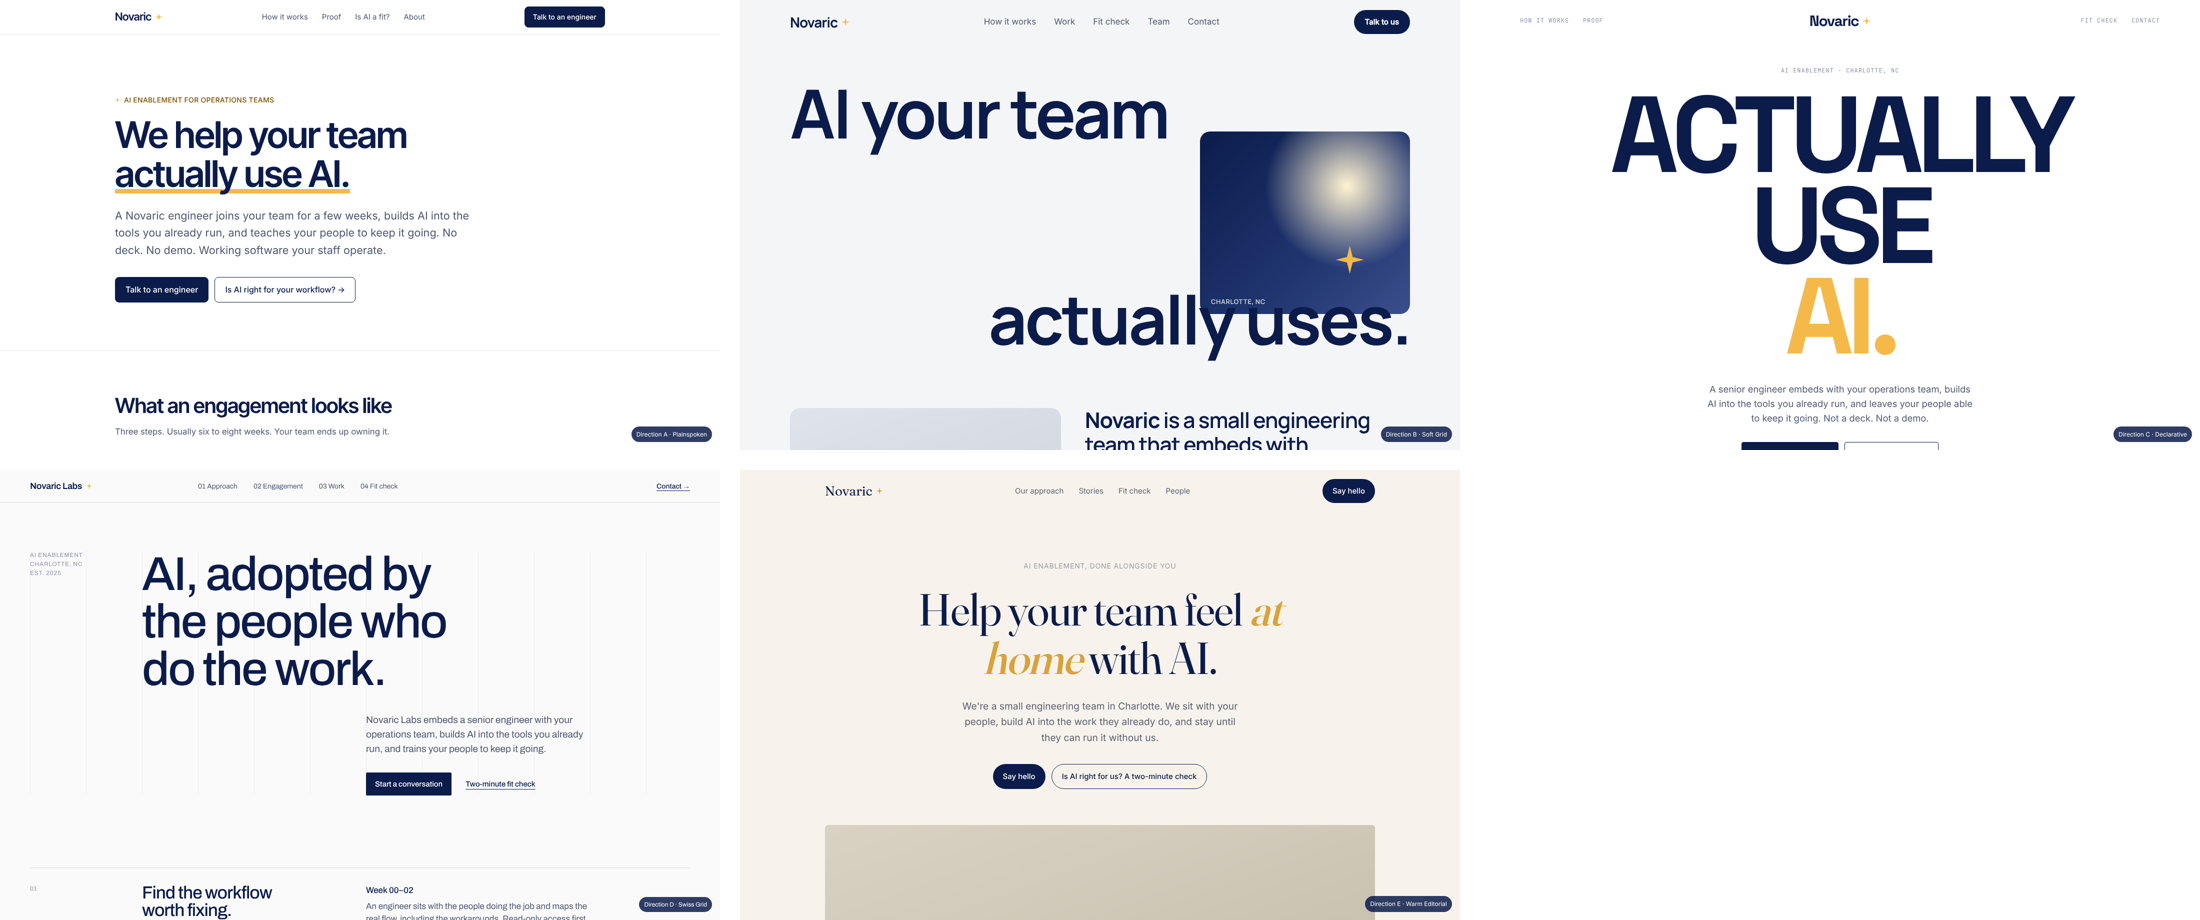
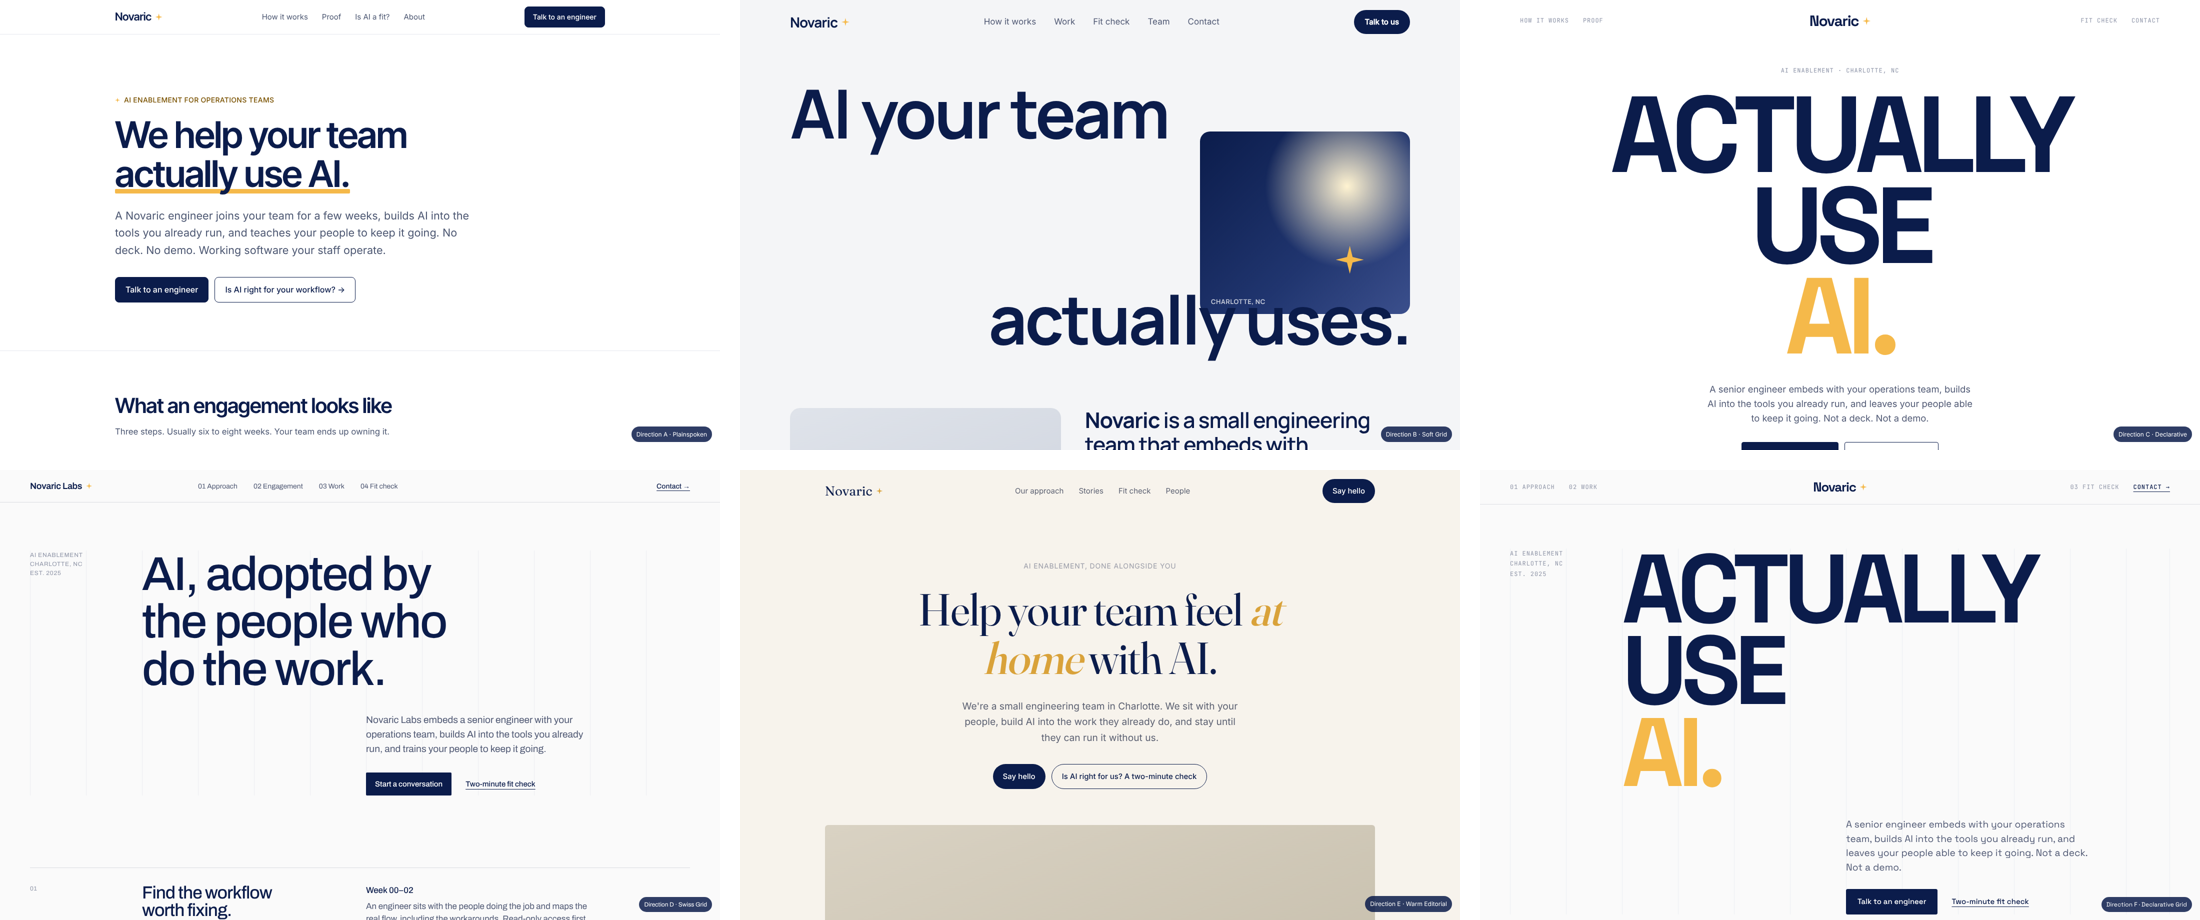
Add Direction F, combining the Declarative and Swiss Grid mockups
Stacked headline, mono labels, role marquee, navy proof block and the
centered fit check from C, set on D's visible 12-column grid with
numbered hairline rows, a work table, and the figures strip. Updates
the index and design-directions.md with the reasoning and makes F the
working recommendation.

Claude-Session: https://claude.ai/code/session_013pzgRyT7PWjBGA45tKFZWZ

diff --git a/handoff/rebrand/direction-f-declarative-grid.html b/handoff/rebrand/direction-f-declarative-grid.html
@@ -1,0 +1,166 @@
+<!DOCTYPE html>
+<html lang="en">
+<head>
+<meta charset="utf-8">
+<meta name="viewport" content="width=device-width, initial-scale=1">
+<title>Direction F — Declarative Grid · Novaric Labs rebrand</title>
+<link rel="preconnect" href="https://fonts.googleapis.com">
+<link href="https://fonts.googleapis.com/css2?family=Space+Grotesk:wght@400;500;700&family=JetBrains+Mono:wght@400;500&display=swap" rel="stylesheet">
+<style>
+  /* C + D. From C: the giant stacked headline, mono micro-labels, the role
+     marquee, the full-bleed navy proof block, the big centered fit check.
+     From D: a visible 12-column grid, flush-left discipline, numbered
+     hairline rows, a table instead of cards, the figures strip, underline
+     links. One display face (Space Grotesk) plus mono for labels. */
+  :root{--ink:#0b1c4b;--ink-soft:#4f5873;--ink-dim:#9096a8;--paper:#fafafa;--line:#dcdee4;--grid:#eceef2;--gold:#f5b94a;--gutter:24px}
+  *{box-sizing:border-box}
+  body{margin:0;background:var(--paper);color:var(--ink);font-family:"Space Grotesk",Inter,system-ui,sans-serif;font-size:17px;line-height:1.5;-webkit-font-smoothing:antialiased}
+  h1,h2,h3{font-weight:700;letter-spacing:-0.04em;line-height:.95;margin:0}
+  p{margin:0} a{color:inherit;text-decoration:none}
+  .mono{font-family:"JetBrains Mono",ui-monospace,monospace;font-size:12px;letter-spacing:.08em;text-transform:uppercase;color:var(--ink-dim)}
+  .wrap{width:min(1320px,calc(100% - 48px));margin:0 auto}
+  .grid{display:grid;grid-template-columns:repeat(12,1fr);column-gap:var(--gutter)}
+  .rule{border-top:1px solid var(--line)}
+  .ul{text-decoration:underline;text-underline-offset:5px;font-weight:500}
+  .star{width:14px;height:14px;background:var(--gold);clip-path:polygon(50% 0,60% 40%,100% 50%,60% 60%,50% 100%,40% 60%,0 50%,40% 40%);display:inline-block}
+  /* nav: C's centered wordmark on D's grid row */
+  nav{position:sticky;top:0;background:var(--paper);border-bottom:1px solid var(--line);z-index:9}
+  nav .grid{height:68px;align-items:center}
+  nav .l{grid-column:1/5;display:flex;gap:28px}
+  nav .brand{grid-column:5/9;text-align:center;font-weight:700;font-size:26px;letter-spacing:-0.05em;display:flex;justify-content:center;align-items:center;gap:8px}
+  nav .r{grid-column:9/13;display:flex;gap:28px;justify-content:flex-end}
+  nav .r .ul{color:var(--ink)}
+  /* hero on a visible grid, flush left */
+  .hero{padding:88px 0 72px;position:relative}
+  .hero .grid{position:relative}
+  .lines{position:absolute;inset:0;display:grid;grid-template-columns:repeat(12,1fr);column-gap:var(--gutter);pointer-events:none}
+  .lines i{border-left:1px solid var(--grid)}
+  .lines i:last-child{border-right:1px solid var(--grid)}
+  .hero .grid>*:not(.lines){position:relative}
+  .hero .idx{grid-column:1/3;grid-row:1;line-height:1.7}
+  .hero .stack{grid-column:3/13;grid-row:1;font-size:clamp(4rem,13.5vw,13rem);line-height:.84;letter-spacing:-0.06em;text-transform:uppercase;font-weight:700}
+  .hero .stack span{display:block}
+  .hero .stack .gold{color:var(--gold)}
+  .hero .lede{grid-column:7/12;grid-row:2;margin-top:48px;font-size:1.2rem;color:var(--ink-soft);max-width:40ch}
+  .hero .actions{grid-column:7/12;grid-row:3;margin-top:28px;display:flex;gap:28px;align-items:center;font-size:15px}
+  .btn{display:inline-flex;align-items:center;padding:13px 22px;border:1.5px solid var(--ink);border-radius:3px;font-weight:500;font-size:15px}
+  .btn.fill{background:var(--ink);color:#fff}
+  /* marquee from C, hairlined like D */
+  .roles{border-top:1px solid var(--line);border-bottom:1px solid var(--line);padding:18px 0;overflow:hidden;white-space:nowrap}
+  .roles .track{display:inline-block;font-weight:500;font-size:1.4rem;letter-spacing:-0.02em;color:var(--ink-soft)}
+  .roles .track i{font-style:normal;margin:0 26px;color:var(--gold)}
+  /* numbered rows from D */
+  section{padding:72px 0}
+  .row{padding:36px 0;align-items:start}
+  .row .n{grid-column:1/3;padding-top:10px}
+  .row h2{grid-column:3/8;font-size:clamp(1.8rem,3.2vw,2.8rem);max-width:14ch}
+  .row .body{grid-column:8/12;color:var(--ink-soft);max-width:44ch;padding-top:6px}
+  .row .body b{display:block;color:var(--ink);font-weight:500;margin-bottom:6px;font-family:"JetBrains Mono";font-size:12px;letter-spacing:.08em;text-transform:uppercase}
+  /* dark proof from C, on the grid */
+  .dark{background:var(--ink);color:#fff;padding:104px 0}
+  .dark .mono{color:#8f98b5}
+  .dark .head{grid-column:1/7}
+  .dark h2{font-size:clamp(2.4rem,5vw,4.6rem);margin-top:16px}
+  .dark p{color:#c7cde0;margin-top:20px;max-width:40ch}
+  .dark .panel{grid-column:8/13;align-self:center;border-top:1px solid #2a3d78;font-family:"JetBrains Mono";font-size:13px;line-height:1.7;color:#c7cde0}
+  .dark .panel div{display:grid;grid-template-columns:110px 90px 1fr;gap:16px;padding:14px 0;border-bottom:1px solid #2a3d78}
+  .dark .panel b{color:var(--gold);font-weight:500}
+  .dark .panel span:first-child{color:#8f98b5}
+  /* work table + figures from D */
+  table{width:100%;border-collapse:collapse;font-size:15px}
+  th{text-align:left;font-weight:500;font-family:"JetBrains Mono";font-size:11px;letter-spacing:.08em;text-transform:uppercase;color:var(--ink-dim);padding:10px 0;border-bottom:1px solid var(--ink)}
+  td{padding:16px 0;border-bottom:1px solid var(--line);vertical-align:top}
+  td:first-child{width:16%;color:var(--ink-dim)}
+  td:nth-child(2){width:22%;font-weight:500}
+  td:last-child{color:var(--ink-soft)}
+  .figures{grid-column:1/13;display:grid;grid-template-columns:repeat(4,1fr);column-gap:var(--gutter);margin-top:72px}
+  .fig{border-top:1px solid var(--ink);padding-top:14px}
+  .fig b{display:block;font-size:3rem;font-weight:700;letter-spacing:-0.05em;line-height:1}
+  .fig span{font-size:14px;color:var(--ink-soft)}
+  /* fit check from C */
+  .fit{padding:112px 0;text-align:center;border-top:1px solid var(--line)}
+  .fit h2{font-size:clamp(2.6rem,6.4vw,5.6rem);max-width:14ch;margin:0 auto 20px;letter-spacing:-0.05em}
+  .fit p{color:var(--ink-soft);max-width:46ch;margin:0 auto 32px}
+  /* contact as a grid row */
+  .contact{padding:96px 0;border-top:1px solid var(--line)}
+  .contact h2{grid-column:1/8;font-size:clamp(2rem,4.2vw,3.6rem);max-width:16ch}
+  .contact .side{grid-column:9/13;display:flex;flex-direction:column;gap:14px;color:var(--ink-soft);font-size:15px}
+  .contact .side .ul{color:var(--ink)}
+  footer{border-top:1px solid var(--line);padding:24px 0}
+  footer .grid>*{grid-column:span 6}
+  footer .grid>*:last-child{text-align:right}
+  .tag{position:fixed;right:16px;bottom:16px;background:var(--ink);color:#fff;font-size:12px;padding:6px 10px;border-radius:999px;opacity:.85}
+  @media(max-width:900px){.grid>*{grid-column:1/13!important;grid-row:auto!important}.lines{display:none}nav .l,nav .r{display:none}nav .brand{justify-content:flex-start}.figures{grid-template-columns:1fr 1fr}.hero .lede{margin-top:32px}}
+</style>
+</head>
+<body>
+<nav><div class="wrap grid">
+  <div class="l mono"><span>01 Approach</span><span>02 Work</span></div>
+  <a class="brand" href="#">Novaric <span class="star"></span></a>
+  <div class="r mono"><span>03 Fit check</span><a class="ul" href="#">Contact →</a></div>
+</div></nav>
+
+<header class="hero"><div class="wrap grid">
+  <div class="lines"><i></i><i></i><i></i><i></i><i></i><i></i><i></i><i></i><i></i><i></i><i></i><i></i></div>
+  <div class="idx mono">AI enablement<br>Charlotte, NC<br>Est. 2025</div>
+  <div class="stack" role="heading" aria-level="1"><span>Actually</span><span>use</span><span class="gold">AI.</span></div>
+  <p class="lede">A senior engineer embeds with your operations team, builds AI into the tools you already run, and leaves your people able to keep it going. Not a deck. Not a demo.</p>
+  <div class="actions"><a class="btn fill" href="#">Talk to an engineer</a><a class="ul" href="#">Two-minute fit check</a></div>
+</div></header>
+
+<div class="roles"><div class="track">Built for <i>✦</i> leasing teams <i>✦</i> back offices <i>✦</i> dispatchers <i>✦</i> claims teams <i>✦</i> clinic admins <i>✦</i> paralegals <i>✦</i> ops managers <i>✦</i> leasing teams <i>✦</i> back offices <i>✦</i> dispatchers</div></div>
+
+<section><div class="wrap">
+  <div class="grid row rule"><span class="n mono">01 / Find</span><h2>We sit with the people doing the work.</h2><div class="body"><b>Week 00–02</b>One engineer, on site, mapping the real flow including the workarounds. Read-only access first.</div></div>
+  <div class="grid row rule"><span class="n mono">02 / Build</span><h2>Inside the tools you already run.</h2><div class="body"><b>Week 03–08</b>Email, spreadsheets, your CRM, your property system. Agents handle the volume; people keep the decisions that carry risk.</div></div>
+  <div class="grid row rule" style="border-bottom:1px solid var(--line)"><span class="n mono">03 / Hand off</span><h2>Code handed over, not held hostage.</h2><div class="body"><b>Ongoing</b>You own the code, the prompts, and the runbook. Training your team is part of the job. Stay on retainer, or don't.</div></div>
+</div></section>
+
+<section class="dark"><div class="wrap grid">
+  <div class="head">
+    <span class="mono">Proof · Property management</span>
+    <h2>A back office that runs itself, mostly.</h2>
+    <p>Lease processing, maintenance routing, tenant communication, and vendor coordination, with a human signing off on anything involving money or lease terms.</p>
+  </div>
+  <div class="panel">
+    <div><span>week 00</span><b>scope</b><span>one workflow, fixed price</span></div>
+    <div><span>week 01–02</span><b>embed</b><span>engineer on site, read-only access</span></div>
+    <div><span>week 03–08</span><b>ship</b><span>live inside your stack, approvals widen as trust builds</span></div>
+    <div><span>ongoing</span><b>hand off</b><span>your team runs it. or we stay.</span></div>
+  </div>
+</div></section>
+
+<section><div class="wrap grid">
+  <span class="mono" style="grid-column:1/3">02 / Work</span>
+  <div style="grid-column:3/13">
+    <table>
+      <tr><th>Sector</th><th>Workflow</th><th>What runs now</th></tr>
+      <tr><td>Property mgmt</td><td>Leasing back office</td><td>Lease processing, maintenance routing, tenant communication, vendor coordination. Human sign-off on money and lease terms.</td></tr>
+      <tr><td>Financial services</td><td>Document intake</td><td>High-volume, rules-driven, document-heavy review with a human approval gate.</td></tr>
+      <tr><td>Healthcare admin</td><td>Scheduling and follow-up</td><td>In scoping.</td></tr>
+    </table>
+  </div>
+  <div class="figures">
+    <div class="fig"><b>1</b><span>engineer, on site</span></div>
+    <div class="fig"><b>8</b><span>weeks, fixed price</span></div>
+    <div class="fig"><b>0</b><span>new platforms to buy</span></div>
+    <div class="fig"><b>100%</b><span>owned by your team at handoff</span></div>
+  </div>
+</div></section>
+
+<section class="fit"><div class="wrap">
+  <span class="mono" style="display:block;margin-bottom:24px">03 / Fit check · Free · No email required</span>
+  <h2>Is AI right for your workflow?</h2>
+  <p>Five questions, one candid read. We'll tell you to wait if you should wait.</p>
+  <a class="btn fill" href="#">Start the fit check</a>
+</div></section>
+
+<section class="contact"><div class="wrap grid">
+  <h2>Tell us about the workflow that's costing you the most.</h2>
+  <div class="side"><span>A straight answer on whether, and how, AI fits. A fixed-price scope if it does.</span><a class="ul" href="#">hello@novariclabs.com</a><a class="ul" href="#">Take the fit check instead →</a></div>
+</div></section>
+
+<footer><div class="wrap grid mono"><span>Novaric Labs · Built in Charlotte</span><span>Designed to run in production.</span></div></footer>
+<div class="tag">Direction F · Declarative Grid</div>
+</body>
+</html>

diff --git a/handoff/rebrand/index.html b/handoff/rebrand/index.html
@@ -2,7 +2,7 @@
 <html lang="en"><head><meta charset="utf-8"><title>Novaric Labs rebrand — design directions</title>
 <style>body{font-family:system-ui,sans-serif;max-width:720px;margin:48px auto;padding:0 24px;color:#0b1c4b;line-height:1.5}a{color:#0b1c4b}li{margin:10px 0}small{color:#6b7280}</style></head>
 <body>
-<h1>Novaric Labs rebrand: five design directions</h1>
+<h1>Novaric Labs rebrand: design directions</h1>
 <p>Open each in a browser. Resize the window to check mobile. Copy is draft; the point is the feel.</p>
 <ol>
 <li><a href="direction-a-plainspoken.html">A · Plainspoken</a> <small>white, Inter, one column, the safe editorial baseline</small></li>
@@ -10,6 +10,7 @@
 <li><a href="direction-c-declarative.html">C · Declarative</a> <small>centered wordmark, giant stacked type, mono labels, alternating dark section (Satyress-inspired)</small></li>
 <li><a href="direction-d-swiss.html">D · Swiss Grid</a> <small>visible 12-column grid, one typeface, numbered sections, table instead of cards</small></li>
 <li><a href="direction-e-warm-editorial.html">E · Warm Editorial</a> <small>cream paper, serif display, a letter instead of a pitch, photography of real people</small></li>
+<li><a href="direction-f-declarative-grid.html"><b>F · Declarative Grid</b></a> <small>C + D combined: stacked headline and mono labels on a visible grid with numbered rows, table, and figures</small></li>
 </ol>
 <p>See <a href="design-directions.md">design-directions.md</a> for the audit, the reasoning, and a recommendation.</p>
 </body></html>

diff --git a/handoff/rebrand/design-directions.md b/handoff/rebrand/design-directions.md
@@ -8,6 +8,7 @@ Files in this folder:
 | --- | --- |
 | `index.html` | Links to the five mockups |
 | `direction-a-plainspoken.html` … `direction-e-warm-editorial.html` | Five self-contained HTML mockups, each about one screen of hero plus 3–4 sections |
+| `direction-f-declarative-grid.html` | The combined C + D direction, built after the first review |
 | `directions-overview.png` | All five heroes side by side |
 | `current-site.png` | The live site's hero today, for comparison |
 
@@ -80,17 +81,44 @@ Every direction keeps the navy wordmark and the gold four-point star from the lo
 - Feels: the most approachable of the five by a distance. Reads like a magazine or a founder's letter, not a product page. Directly answers "make it less intimidating."
 - Risk: needs real photography and a real voice to work; placeholder gradients and generic copy would kill it. Serif-on-cream can tip into "boutique agency" if overdone.
 
+### F · Declarative Grid (C + D combined)
+
+**Principle:** confidence through scale, discipline through structure. Built after the first review picked C and D.
+
+Taken from C:
+- The giant stacked uppercase headline with the gold "AI."
+- JetBrains Mono micro-labels everywhere a label is needed (nav, section numbers, week markers, footer)
+- The "Built for …" role marquee under the hero
+- The full-bleed navy proof block with the mono engagement timeline
+- The big centered "Is AI right for your workflow?" fit-check section
+
+Taken from D:
+- A visible 12-column grid behind the hero, with the headline flush-left instead of centered
+- The meta column (AI enablement / Charlotte / Est.) in the first two grid columns
+- Numbered hairline rows for the three steps: number, headline, body across the grid
+- The work table and the four-figure strip instead of cards
+- Underline links for secondary actions, a dark fill button for the primary only
+- One display face (Space Grotesk) carrying everything, mono as the only second voice
+
+What was dropped: C's centered hero and its loose spacing, D's lighter-weight Archivo (it fought the stacked headline), and D's navy contact block (one dark section per page is enough).
+
+- Headline: "ACTUALLY / USE / AI." with the lede and actions sitting in the right half of the grid below it.
+- Feels: assured without being loud. The grid and the numbered rows make the bold type feel engineered rather than shouty, which is the right tone for a team selling production reliability.
+- Risk: the stacked hero is tall on desktop; on a 13-inch laptop the lede sits near the fold. Worth testing a slightly smaller headline or a two-column hero on short viewports.
+
 ## 3. Where they sit
 
-| | Softest | | | Boldest |
-| --- | --- | --- | --- | --- |
-| E · Warm Editorial | B · Soft Grid | A · Plainspoken | D · Swiss Grid | C · Declarative |
+| | Softest | | | | Boldest |
+| --- | --- | --- | --- | --- | --- |
+| E · Warm Editorial | B · Soft Grid | A · Plainspoken | D · Swiss Grid | F · Declarative Grid | C · Declarative |
 
 A, B and D are "clean minimal" in the conventional sense. E is minimal but warm. C is minimal by word count, not by volume.
 
 ## 4. Recommendation
 
-Lead with **B (Soft Grid)** or **E (Warm Editorial)**, and borrow one thing from C: the fit check should be promoted to a hero-adjacent CTA with the "no email required" line visible.
+After the first review, **F (Declarative Grid)** is the working direction. It keeps C's memorable hero and D's structural discipline, and the fit check is promoted to a hero-adjacent CTA with the "no email required" line visible.
+
+Earlier reasoning, kept for the record: B and E were the original recommendations on approachability grounds.
 
 - Choose **B** if the audience is operations leaders at mid-size companies who are already AI-curious and want to see competence. It is modern, friendly, and the structure ports cleanly into the existing Next.js components.
 - Choose **E** if the audience is skeptical, non-technical, or has been burned by an AI pilot before. The letter format and serif voice do more for "approachable" than any layout trick.
